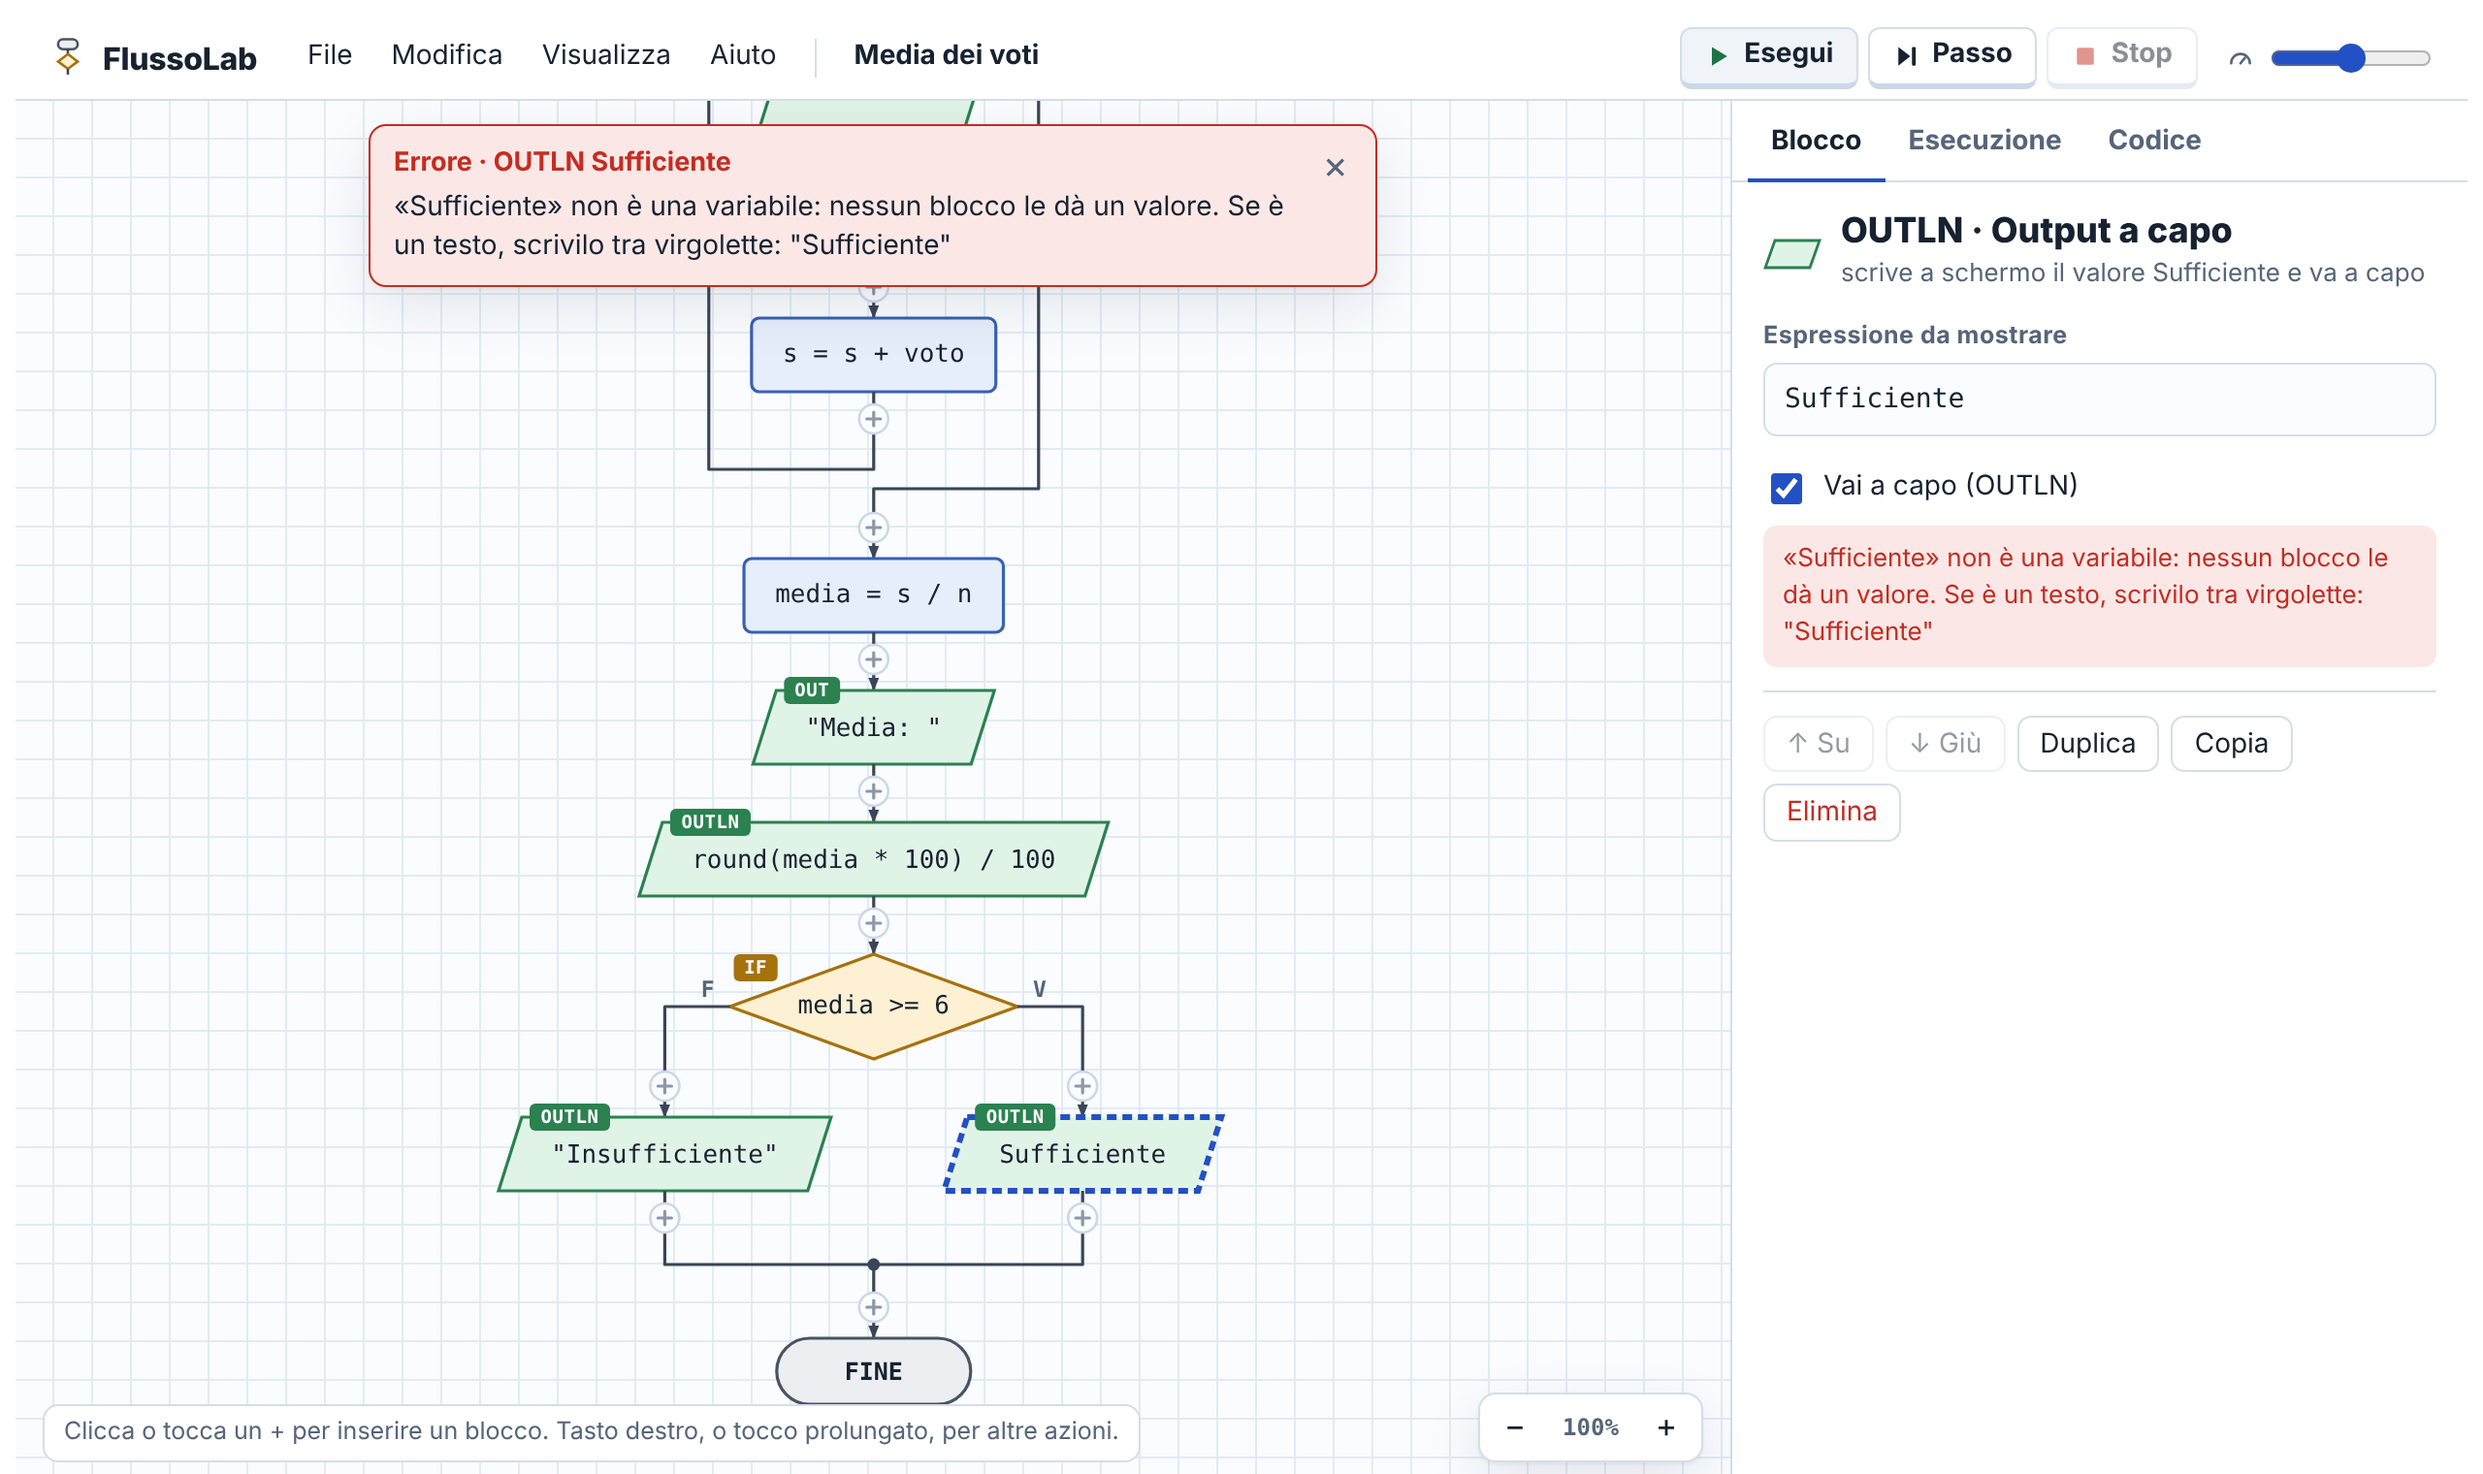
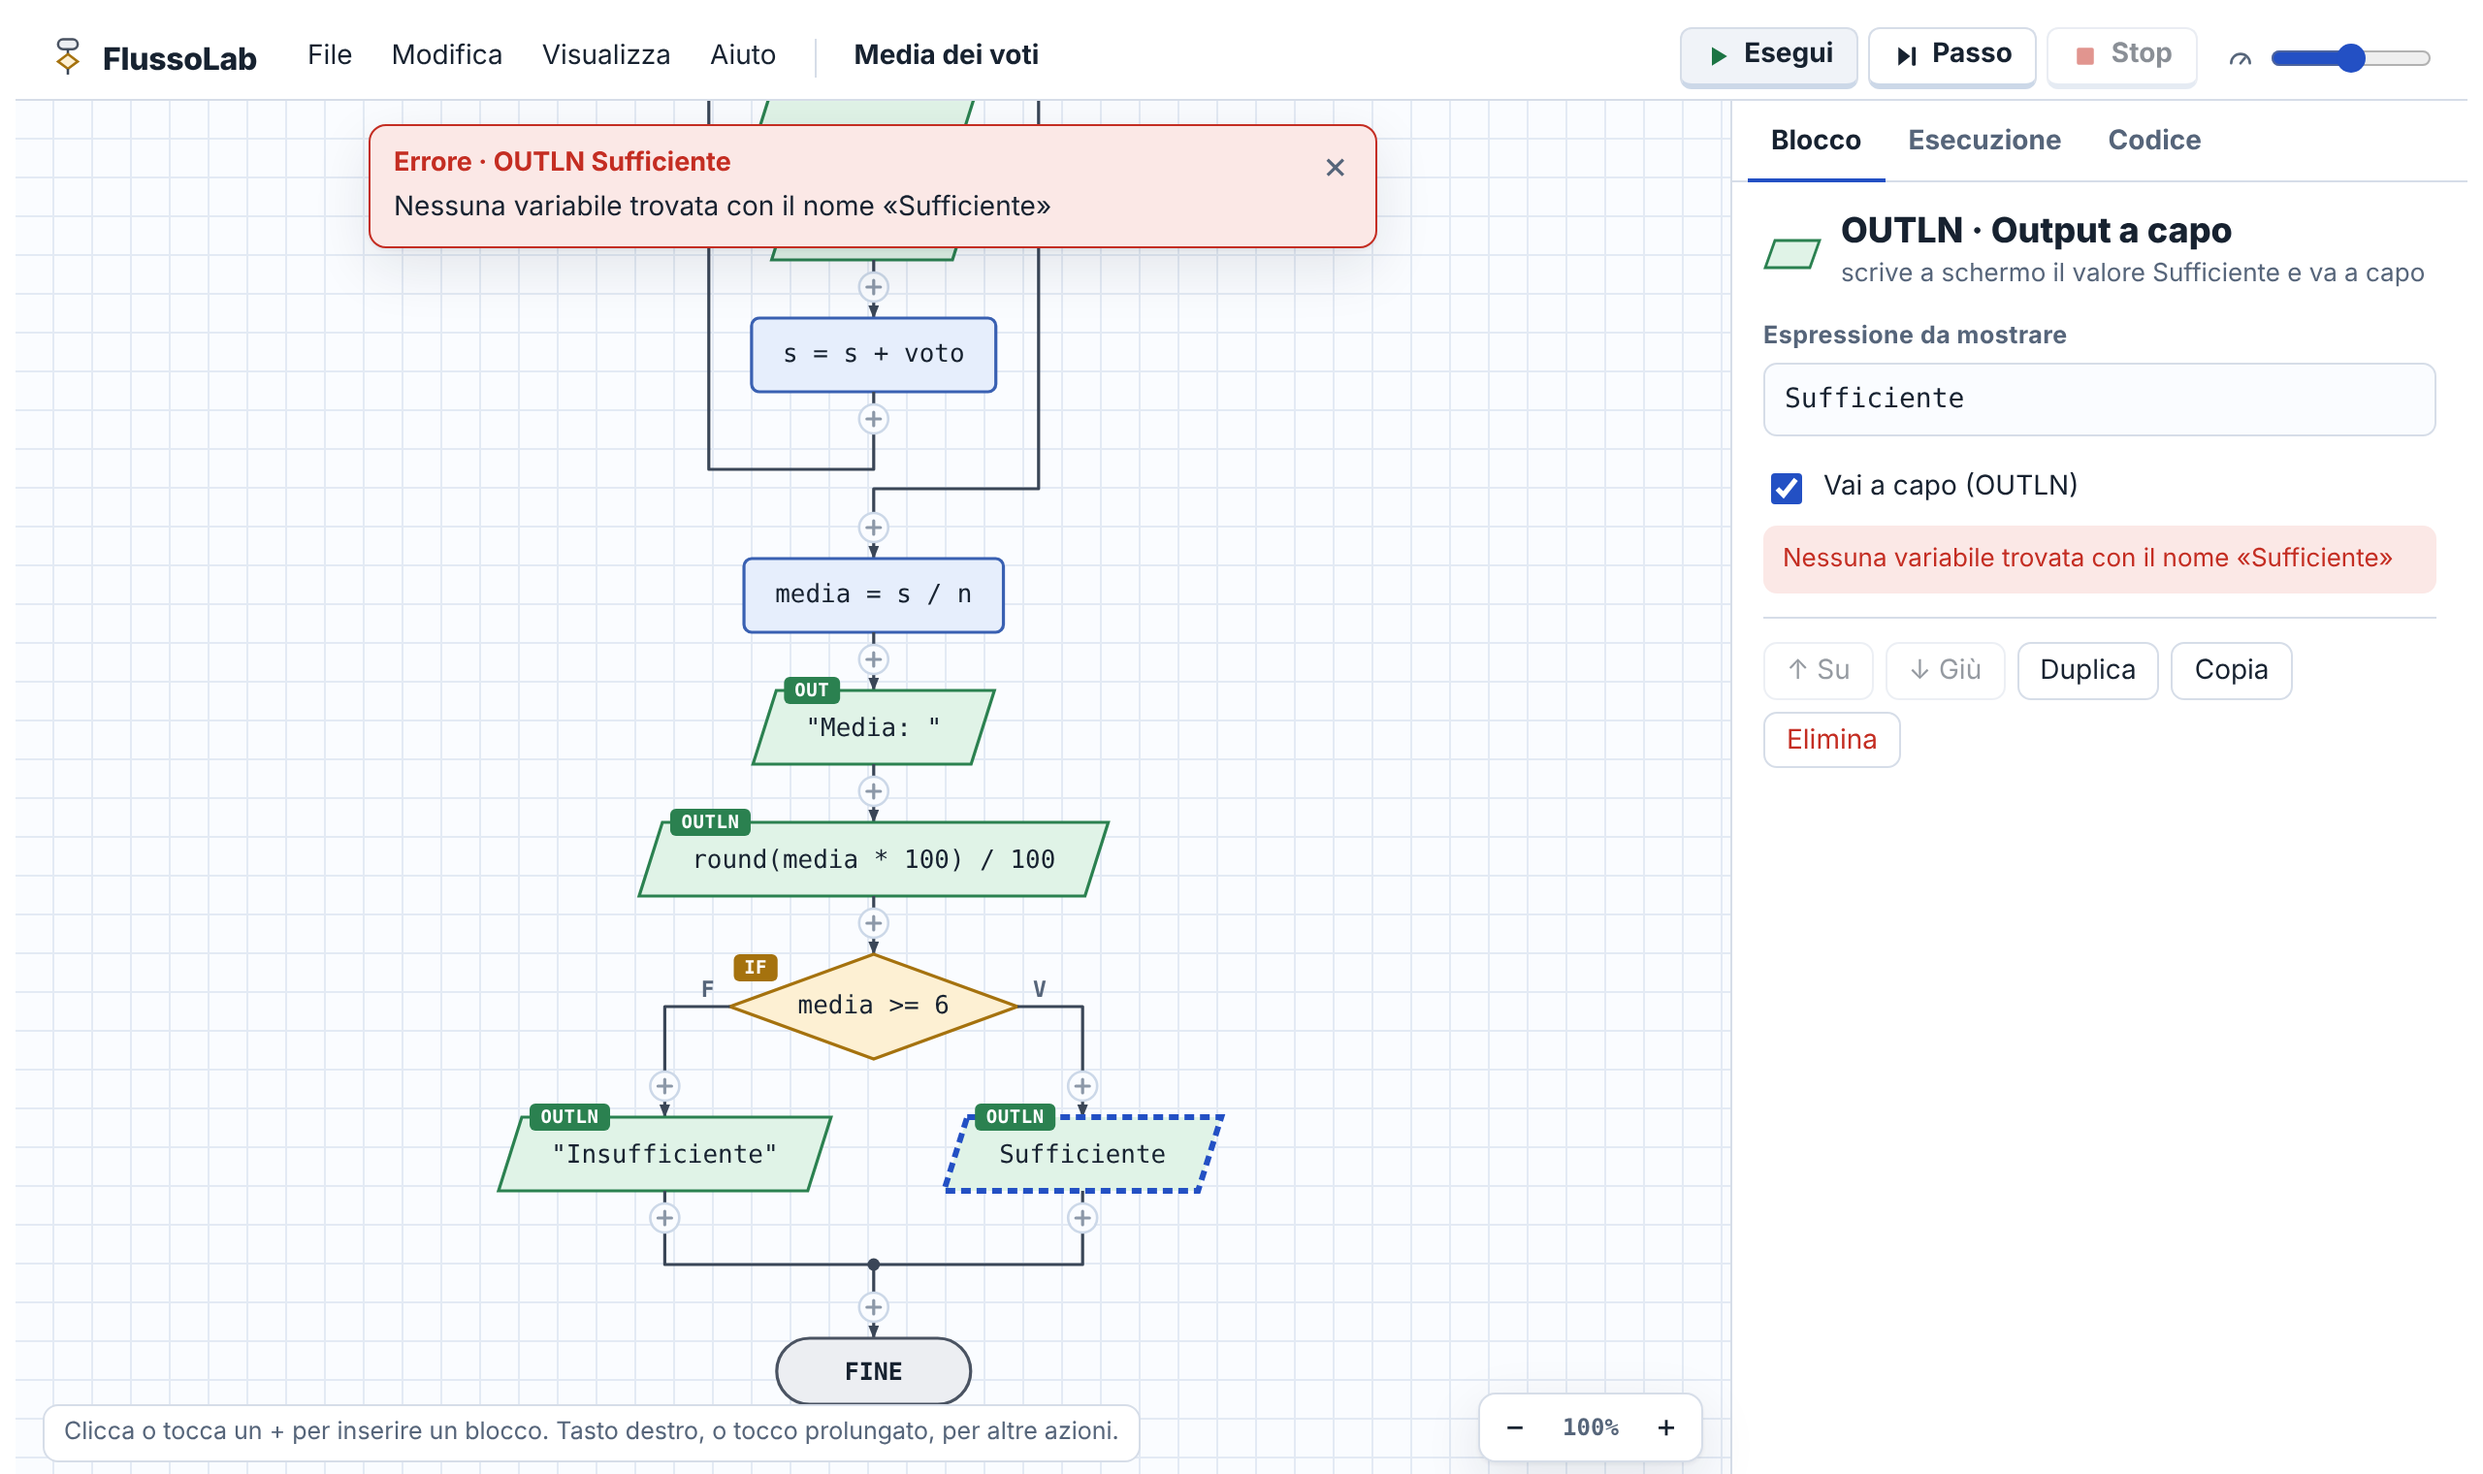
Messaggio più breve per le variabili non trovate

Changed region(s): [[0.6875, 0.3711, 1.0, 0.5257], [0.1562, 0.1237, 0.5625, 0.1855], [0.7188, 0.4947, 0.7812, 0.5566]]

diff --git a/js/app.js b/js/app.js
@@ -47,7 +47,7 @@ const I18N = {
     aboutText: 'Editor di diagrammi di flusso che funziona nel browser, pensato per la scuola. Non serve installare niente.',
     devBy: 'Sviluppato da', license: 'Licenza', freeOpen: 'gratuito, codice aperto, vietato l\'uso commerciale', source: 'Codice sorgente',
     supportText: 'FlussoLab è gratuito. Se ti è utile, puoi aiutare a mantenerlo con una piccola donazione.', support: 'Sostieni il progetto',
-    e_nodef: n => `«${n}» non è una variabile: nessun blocco le dà un valore. Se è un testo, scrivilo tra virgolette: "${n}"`,
+    e_nodef: n => `Nessuna variabile trovata con il nome «${n}»`,
     e_notcond: 'Questa non è una condizione: serve un confronto, ad esempio x > 0', invert: 'Inverti condizione', swap: 'Scambia rami V e F',
     inverted: 'Condizione invertita', swapped: 'Rami scambiati',
     explain: 'Spiegazione', explainT: 'Mostra accanto a ogni blocco cosa fa, in parole semplici',
@@ -115,7 +115,7 @@ const I18N = {
     aboutText: 'A flowchart editor that runs in the browser, made for school. Nothing to install.',
     devBy: 'Developed by', license: 'License', freeOpen: 'free, open code, no commercial use', source: 'Source code',
     supportText: 'FlussoLab is free. If you find it useful, you can help keep it going with a small donation.', support: 'Support the project',
-    e_nodef: n => `“${n}” is not a variable: no block gives it a value. If it is text, put it in quotes: "${n}"`,
+    e_nodef: n => `No variable found with the name “${n}”`,
     e_notcond: 'This is not a condition: it needs a comparison, for example x > 0', invert: 'Invert condition', swap: 'Swap T and F branches',
     inverted: 'Condition inverted', swapped: 'Branches swapped',
     explain: 'Explain', explainT: 'Show next to each block what it does, in plain words',
